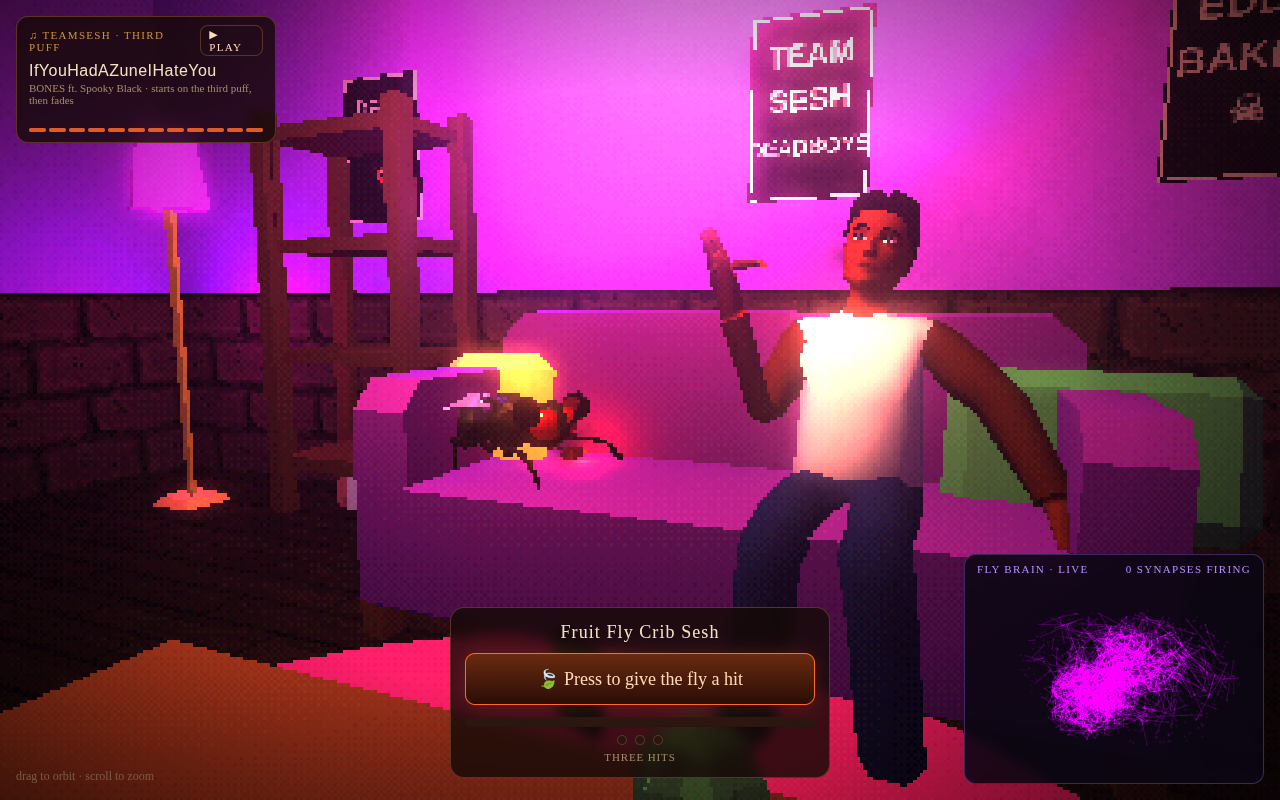
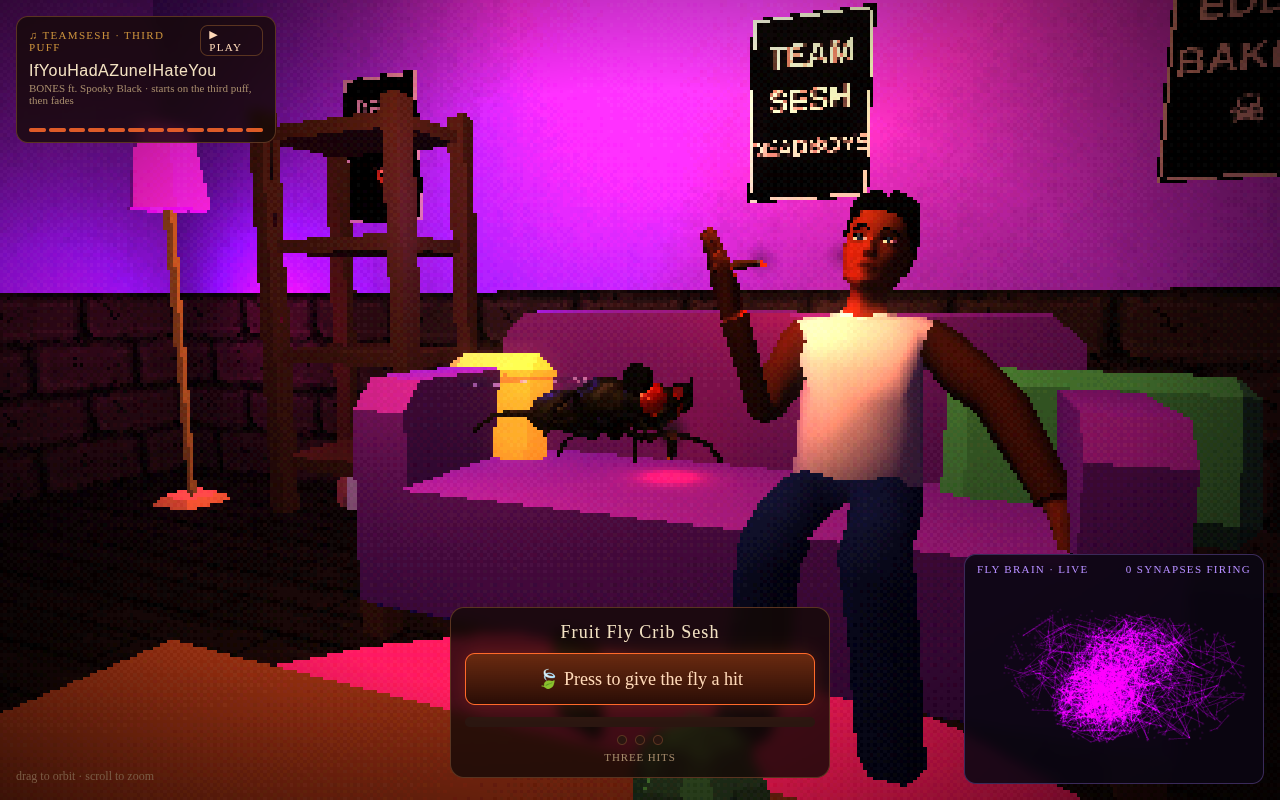
Fly seated inside the cushion, less fire and smoke, video poster on the left wall, pillows removed

diff --git a/index.html b/index.html
@@ -136,6 +136,7 @@ import { EffectComposer } from 'three/addons/postprocessing/EffectComposer.js';
 import { RenderPass } from 'three/addons/postprocessing/RenderPass.js';
 import { UnrealBloomPass } from 'three/addons/postprocessing/UnrealBloomPass.js';
 import { ShaderPass } from 'three/addons/postprocessing/ShaderPass.js';
+const Q = new URLSearchParams(location.search);   // ?demo ?seq=1.8 ?tilt=-0.9 ?cam=x,y,z,tx,ty,tz
 
 // ---------- renderer / scene ----------
 // PS1 look: render into a tiny buffer and let the browser upscale it with no smoothing
@@ -162,7 +163,7 @@ controls.minDistance = 2.2; controls.maxDistance = 18;
 
 const composer = new EffectComposer(renderer);
 composer.addPass(new RenderPass(scene, camera));
-const bloom = new UnrealBloomPass(new THREE.Vector2(psxW(), psxH()), 0.35, 0.6, 0.35);
+const bloom = new UnrealBloomPass(new THREE.Vector2(psxW(), psxH()), 0.22, 0.5, 0.6);
 composer.addPass(bloom);
 // 15-bit colour with an ordered dither, like the console's output
 const ditherPass = new ShaderPass({
@@ -300,6 +301,13 @@ function hangPosters(){
   // a poster of the lowrider on the left wall, facing +x
   const lp = new THREE.Mesh(new THREE.PlaneGeometry(1.8, 1.2), psxify(new THREE.MeshLambertMaterial({ map: posterTex(['SESH', 'HOLD'], '#0a0a0a', '#e0e0e0', 144, 96) })));
   lp.rotation.y = Math.PI/2; lp.position.set(-3*ROOM_S + .1, 1.8*ROOM_S, 1.2*ROOM_S); scene.add(lp);
+  // a video still on the left wall, facing into the room
+  new THREE.TextureLoader().load('assets/poster_yt.png', (t) => {
+    const yp = new THREE.Mesh(new THREE.PlaneGeometry(2.6, 1.46), psxify(new THREE.MeshLambertMaterial({ map: pixelTex(t) })));
+    yp.rotation.y = Math.PI/2; yp.position.set(-3*ROOM_S + .12, 1.75*ROOM_S, 0.1*ROOM_S); scene.add(yp);   // left wall, beside the Sesh Hold poster
+    const frame = new THREE.Mesh(new THREE.PlaneGeometry(2.8, 1.66), psxify(new THREE.MeshLambertMaterial({ color: 0xe8e8e8 })));
+    frame.rotation.y = Math.PI/2; frame.position.copy(yp.position); frame.position.x -= .02; scene.add(frame);
+  });
 }
 
 // lights: a warm overhead, the lava lamp, the TV, the void leaking in through the windows
@@ -335,8 +343,24 @@ zune.position.set(1.0, 0.37*ROOM_S + .16, -0.55*ROOM_S); zune.rotation.y = -.5; 
 
 // ---------- THE FLY (sculpted model, assets/fly.glb) ----------
 const fly = new THREE.Group();
-const FLY_Y = 0.41*ROOM_S + .05;        // couch seat height, leg tips resting on the cushion
-fly.position.set(-0.4*ROOM_S, FLY_Y, -1.52*ROOM_S); fly.rotation.y = 1.35; scene.add(fly);
+const SEAT_Y = 0.41*ROOM_S, BACKREST_Z = -1.81*ROOM_S;   // couch seat top and the backrest's front face
+let FLY_Y = SEAT_Y, FLY_TILT = parseFloat(Q.get('tilt') ?? '-0.35'), FLY_YAW = parseFloat(Q.get('yaw') ?? '1.35');   // lounging: abdomen on the cushion, head up
+fly.position.set(-0.45*ROOM_S, FLY_Y, -1.55*ROOM_S); fly.rotation.set(FLY_TILT, FLY_YAW, 0); scene.add(fly);
+function seatFly(){
+  // fit the fly model inside the left cushion: between the armrest and the smoker, in front of the backrest,
+  // resting on the seat. exact vertex bounds, and shrink it if it does not fit.
+  const CUSHION = { xMin: -0.5*ROOM_S + .05, xMax: 0.25*ROOM_S, zMin: BACKREST_Z + .05, zMax: -1.23*ROOM_S - .05 };
+  const model = fly.children.find(c => c.userData.isFlyModel);
+  fly.rotation.set(FLY_TILT, FLY_YAW, 0); fly.position.set(0, 0, 0); fly.updateMatrixWorld(true);
+  const b = new THREE.Box3().setFromObject(model, true);
+  const w = b.max.x - b.min.x, d = b.max.z - b.min.z;
+  const fit = Math.min(1, (CUSHION.xMax - CUSHION.xMin) / w, (CUSHION.zMax - CUSHION.zMin) / d);
+  if (fit < 1) { model.scale.multiplyScalar(fit); fly.updateMatrixWorld(true); b.setFromObject(model, true); }
+  FLY_Y = SEAT_Y - b.min.y + .02;
+  fly.position.set((CUSHION.xMin + CUSHION.xMax)/2 - (b.min.x + b.max.x)/2, FLY_Y, CUSHION.zMin - b.min.z);
+  fly.updateMatrixWorld(true);
+  if (Q.has('debug')) { const bb = new THREE.Box3().setFromObject(model, true); console.log('FLYBOX', JSON.stringify(bb), 'cushion', JSON.stringify(CUSHION), 'fit', fit); }
+}
 let eyeMat = null, wingMesh = null, headMesh = null;
 const headLocal = new THREE.Vector3(0, .55, .8);     // updated from the eye mesh once loaded
 const mouthLocal = new THREE.Vector3(0, .3, .9);
@@ -345,7 +369,7 @@ new GLTFLoader().parse(flyBytes, '', (g) => {
   const m = g.scene;
   const box = new THREE.Box3().setFromObject(m); const size = box.getSize(new THREE.Vector3());
   const s = 1.7 / Math.max(size.x, size.y, size.z); m.scale.setScalar(s);
-  box.setFromObject(m); m.position.y -= box.min.y;                     // stand on the cushion
+  box.setFromObject(m); m.position.sub(box.getCenter(new THREE.Vector3()));   // centre the model so the tilt pivots around its body
   m.updateMatrixWorld(true);
   m.traverse(o => {
     if (!o.isMesh) return;
@@ -357,7 +381,8 @@ new GLTFLoader().parse(flyBytes, '', (g) => {
     else { o.material = new THREE.MeshStandardMaterial({ color:0x15100a, roughness:.5, metalness:.2 }); }
     psxify(o.material);
   });
-  fly.add(m);
+  m.userData.isFlyModel = true; fly.add(m);
+  seatFly();
   placeBlunt();
   addCans();
 }, (err) => console.error('fly model failed to parse', err));
@@ -369,10 +394,10 @@ function makeBlunt(len=.55, r=.045){
   const ash = new THREE.Mesh(new THREE.CylinderGeometry(r*.95, r*.85, len*.12, 8), psxify(new THREE.MeshLambertMaterial({ color:0x8a8a86 })));
   ash.rotation.z = Math.PI/2; ash.position.x = len*1.0; g.add(ash);
   const ember = new THREE.Mesh(new THREE.SphereGeometry(r*.9, 8, 6), new THREE.MeshBasicMaterial({ color:0xff6a10 })); ember.position.x = len*1.08; g.add(ember);
-  const light = new THREE.PointLight(0xff5a10, 1, 3, 2); light.position.copy(ember.position); g.add(light);
+  const light = new THREE.PointLight(0xff5a10, .4, 2, 2); light.position.copy(ember.position); g.add(light);
   g.userData = { ember, light }; return g;
 }
-const pipe = makeBlunt(.6, .05);                 // the fly's
+const pipe = makeBlunt(.5, .04);                 // the fly's
 const bowl = pipe.userData.ember, ember = pipe.userData.ember, emberLight = pipe.userData.light;
 fly.add(pipe);
 function placeBlunt(){ pipe.position.copy(mouthLocal); pipe.rotation.set(0, .55, -.15); }
@@ -489,7 +514,8 @@ const tmpC = new THREE.Color();
 let dose = 0, doseTarget = 0, torch = 0, fireworkTimer = 0, wingPhase = 0;
 const btn = document.getElementById('puff'), meter = document.querySelector('#meter > div');
 let seedBurst = 0, bakedTimer = null, listen = 0, puffCount = 0, bakedHold = 0;
-const SEQ_FREEZE = parseFloat(new URLSearchParams(location.search).get('seq') ?? '-1');
+const SEQ_FREEZE = parseFloat(Q.get('seq') ?? '-1');
+if (Q.has('cam')) { const v = Q.get('cam').split(',').map(Number); camera.position.set(v[0], v[1], v[2]); controls.target.set(v[3], v[4], v[5]); }
 let seqStart = -100;   // clock time the last hit began; drives the fly-then-smoker choreography
 const env = (x, a, b) => Math.max(0, Math.min(1, (x - a) / (b - a)));   // 0..1 ramp between a and b
 const bump = (x, a, b) => { const u = env(x, a, b); return Math.sin(u * Math.PI); };  // rises then falls over a..b
@@ -519,7 +545,7 @@ btn.addEventListener('click', () => {
 
 function fireworks(big){
   fly.localToWorld(headWorld.copy(headLocal));
-  const n = big ? 260 : 80, hue = Math.random();
+  const n = big ? 120 : 30, hue = Math.random();
   for (let k=0;k<n;k++){
     const th=Math.random()*Math.PI*2, ph=Math.acos(2*Math.random()-1), sp=(big?2.4:1.6)*(.6+Math.random()*.6);
     tmpC.setHSL((hue + (Math.random()<.5?0:.5) + Math.random()*.08)%1, 1, .6);
@@ -554,7 +580,7 @@ function animate(){
   // --- the fly reacts ---
   fly.position.y = FLY_Y + Math.sin(t*(2+glow*20))*.01*glow*glow + torch*.03*Math.sin(t*40) + listen * .12;
   fly.rotation.z = Math.sin(t*1.3)*.04*glow + torch*.05*Math.sin(t*33);
-  fly.rotation.x = Math.sin(t*.9)*.05*glow;
+  fly.rotation.x = FLY_TILT + Math.sin(t*.9)*.05*glow;
   fly.localToWorld(mouthWorld.copy(mouthLocal));
   wingPhase += dt*(1.5 + glow*60);
   if (wingMesh) wingMesh.rotation.x = Math.sin(wingPhase)*(.02 + glow*.18);
@@ -572,8 +598,8 @@ function animate(){
   fly.rotation.x += flyDrag*.12 - flyExhale*.1;            // lean into the drag, tip back on the exhale
   fly.position.y += flyExhale*.05;
   ember.material.color.setHSL(.05, 1, .35 + torch*.3 + flyDrag*.3);
-  emberLight.intensity = 1 + torch*10 + flyDrag*14;
-  if (flyExhale > 0) for (let k=0; k<flyExhale*9; k++)
+  emberLight.intensity = .4 + torch*2.5 + flyDrag*4;
+  if (flyExhale > 0) for (let k=0; k<flyExhale*5; k++)
     emit(smoke, mouthWorld.x, mouthWorld.y, mouthWorld.z, (Math.random()-.5)*.15 + .25*flyExhale, .18+Math.random()*.2, (Math.random()-.5)*.15 + .35*flyExhale, 2+Math.random()*1.5, .9,.85,.82);
 
   // --- neurons: activity starts in the central lobes and cascades outward along synapses ---
@@ -602,7 +628,7 @@ function animate(){
     nHeat[i]=h; if (h > .6) firing++;
     tmpC.setHSL(.78 - h*.7, 1, .12 + h*.55);
     nCol[i*3]=tmpC.r; nCol[i*3+1]=tmpC.g; nCol[i*3+2]=tmpC.b;
-    if (nFired[i] && nRad[i] > .55 && Math.random() < glow*.06){   // outer-shell spikes spit fire out of the fly's head
+    if (nFired[i] && nRad[i] > .55 && Math.random() < glow*.015){   // outer-shell spikes spit fire out of the fly's head
       v3.set(nPos[i*3],nPos[i*3+1],nPos[i*3+2]).normalize();
       const sp = .5 + torch*.8 + Math.random()*.4;
       emit(fire, headWorld.x+v3.x*.3, headWorld.y+v3.y*.3, headWorld.z+v3.z*.3, v3.x*sp+(Math.random()-.5)*.2, Math.abs(v3.y)*sp+.6, v3.z*sp+(Math.random()-.5)*.2, .3+Math.random()*.3, 1,.75,.2);
@@ -615,17 +641,17 @@ function animate(){
   brain.rotation.y = t*.35; brain.rotation.x = Math.sin(t*.4)*.2;
   brainStat.textContent = `${firing} synapses firing`;
   stepBrainSmoke(dt, t);
-  bloom.strength = .45 + glow*.25 + torch*.2;
+  bloom.strength = .22 + glow*.12 + torch*.1;
 
   // --- smoke: a small wisp curling up from the fly's mouth, a little more right after a puff ---
-  const wisp = .6 + glow*2 + torch*6;
+  const wisp = .15 + glow*.8 + torch*2;
   for (let k=0;k<wisp;k++)
     emit(smoke, mouthWorld.x+(Math.random()-.5)*.06, mouthWorld.y+.02, mouthWorld.z+(Math.random()-.5)*.06, (Math.random()-.5)*.12, .25+Math.random()*.2, (Math.random()-.5)*.12, 1.6+Math.random()*1.4, .85,.8,.75);
   bowl.getWorldPosition(bowlWorld);
-  if (Math.random() < .3 + torch)
+  if (Math.random() < .12 + torch*.4)
     emit(smoke, bowlWorld.x, bowlWorld.y+.12, bowlWorld.z, (Math.random()-.5)*.08, .2+Math.random()*.15, (Math.random()-.5)*.08, 1.2+Math.random(), .8,.7,.65);
   fireworkTimer -= dt;
-  if (glow > .35 && fireworkTimer <= 0){ fireworks(false); fireworkTimer = .9 + (1-glow)*2.5; }
+  if (glow > .5 && fireworkTimer <= 0){ fireworks(false); fireworkTimer = 2.5 + (1-glow)*4; }
 
   step(smoke, dt, (i)=>{ smoke.vel[i*3]+=Math.sin(t*1.1+i)*dt*.12; smoke.vel[i*3+2]+=Math.cos(t*.9+i*1.7)*dt*.12; smoke.vel[i*3+1]*=1-dt*.2; }, (i,l)=> (1-l)*Math.min(1,l*4)*.7);
   step(fire, dt, (i)=>{ fire.vel[i*3+1]+=dt*1.5; }, (i,l)=>{ tmpC.setHSL(.12-l*.12, 1, .7-l*.5); fire.base[i*3]=tmpC.r; fire.base[i*3+1]=tmpC.g; fire.base[i*3+2]=tmpC.b; return 1; });
